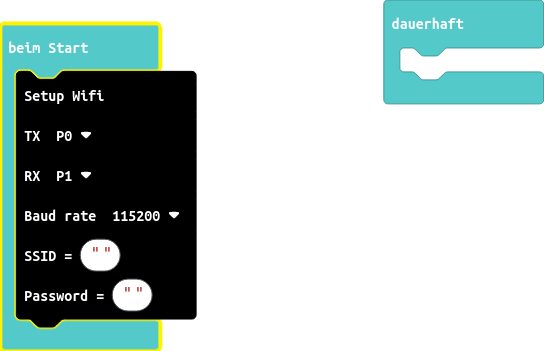
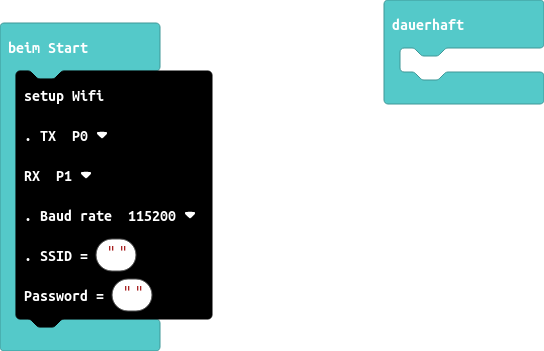
Aktualisiere main.blocks, main.ts, custom.ts

diff --git a/custom.ts b/custom.ts
@@ -15,7 +15,7 @@ namespace communication {
     /**
      * Setup Grove - Uart WiFi V2 to connect to  Wi-Fi
      */
-    //% block="setup Wifi|. TX %txPin RX %rxPin|. Baud rate %baudrate|. SSID = %ssid Password = %passwd"
+    //% block="Setup Wifi| TX %txPin RX %rxPin| Baud rate %baudrate| SSID = %ssid| Password = %passwd"
     //% group="UartWiFi"
     //% txPin.defl=SerialPin.C17
     //% rxPin.defl=SerialPin.C16

diff --git a/main.ts b/main.ts
@@ -1,6 +1,6 @@
 communication.setupWifi(
-SerialPin.P0,
-SerialPin.P1,
+SerialPin.C17,
+SerialPin.C16,
 BaudRate.BaudRate115200,
 "",
 ""
